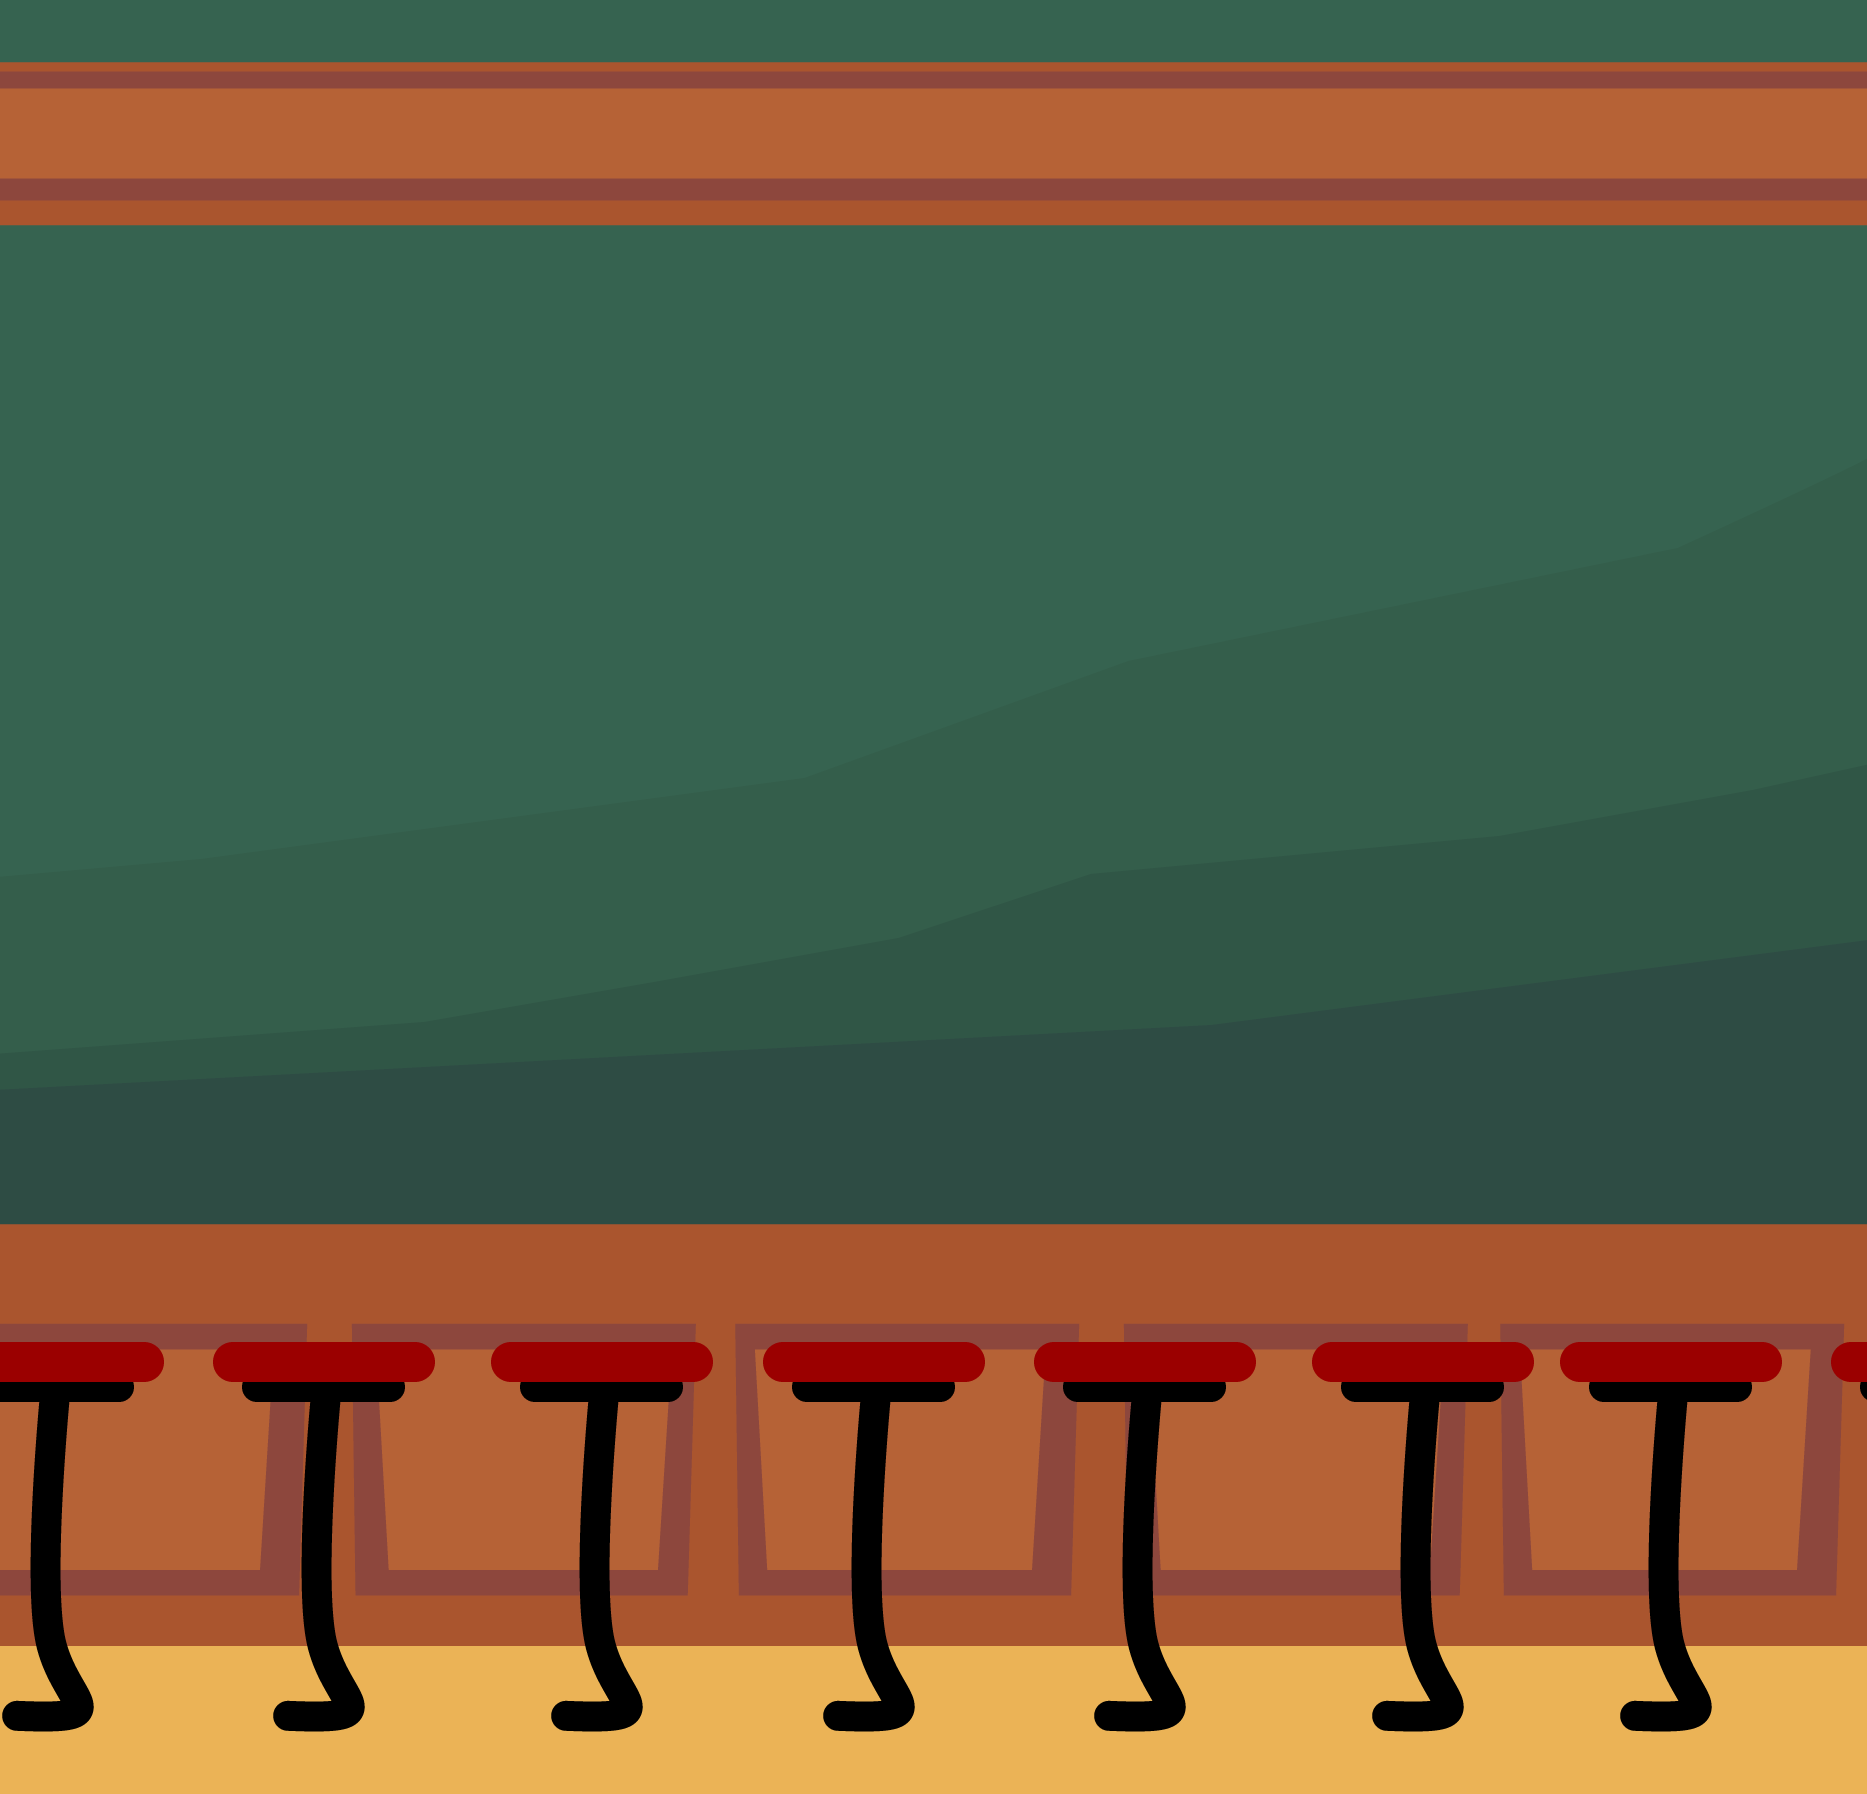
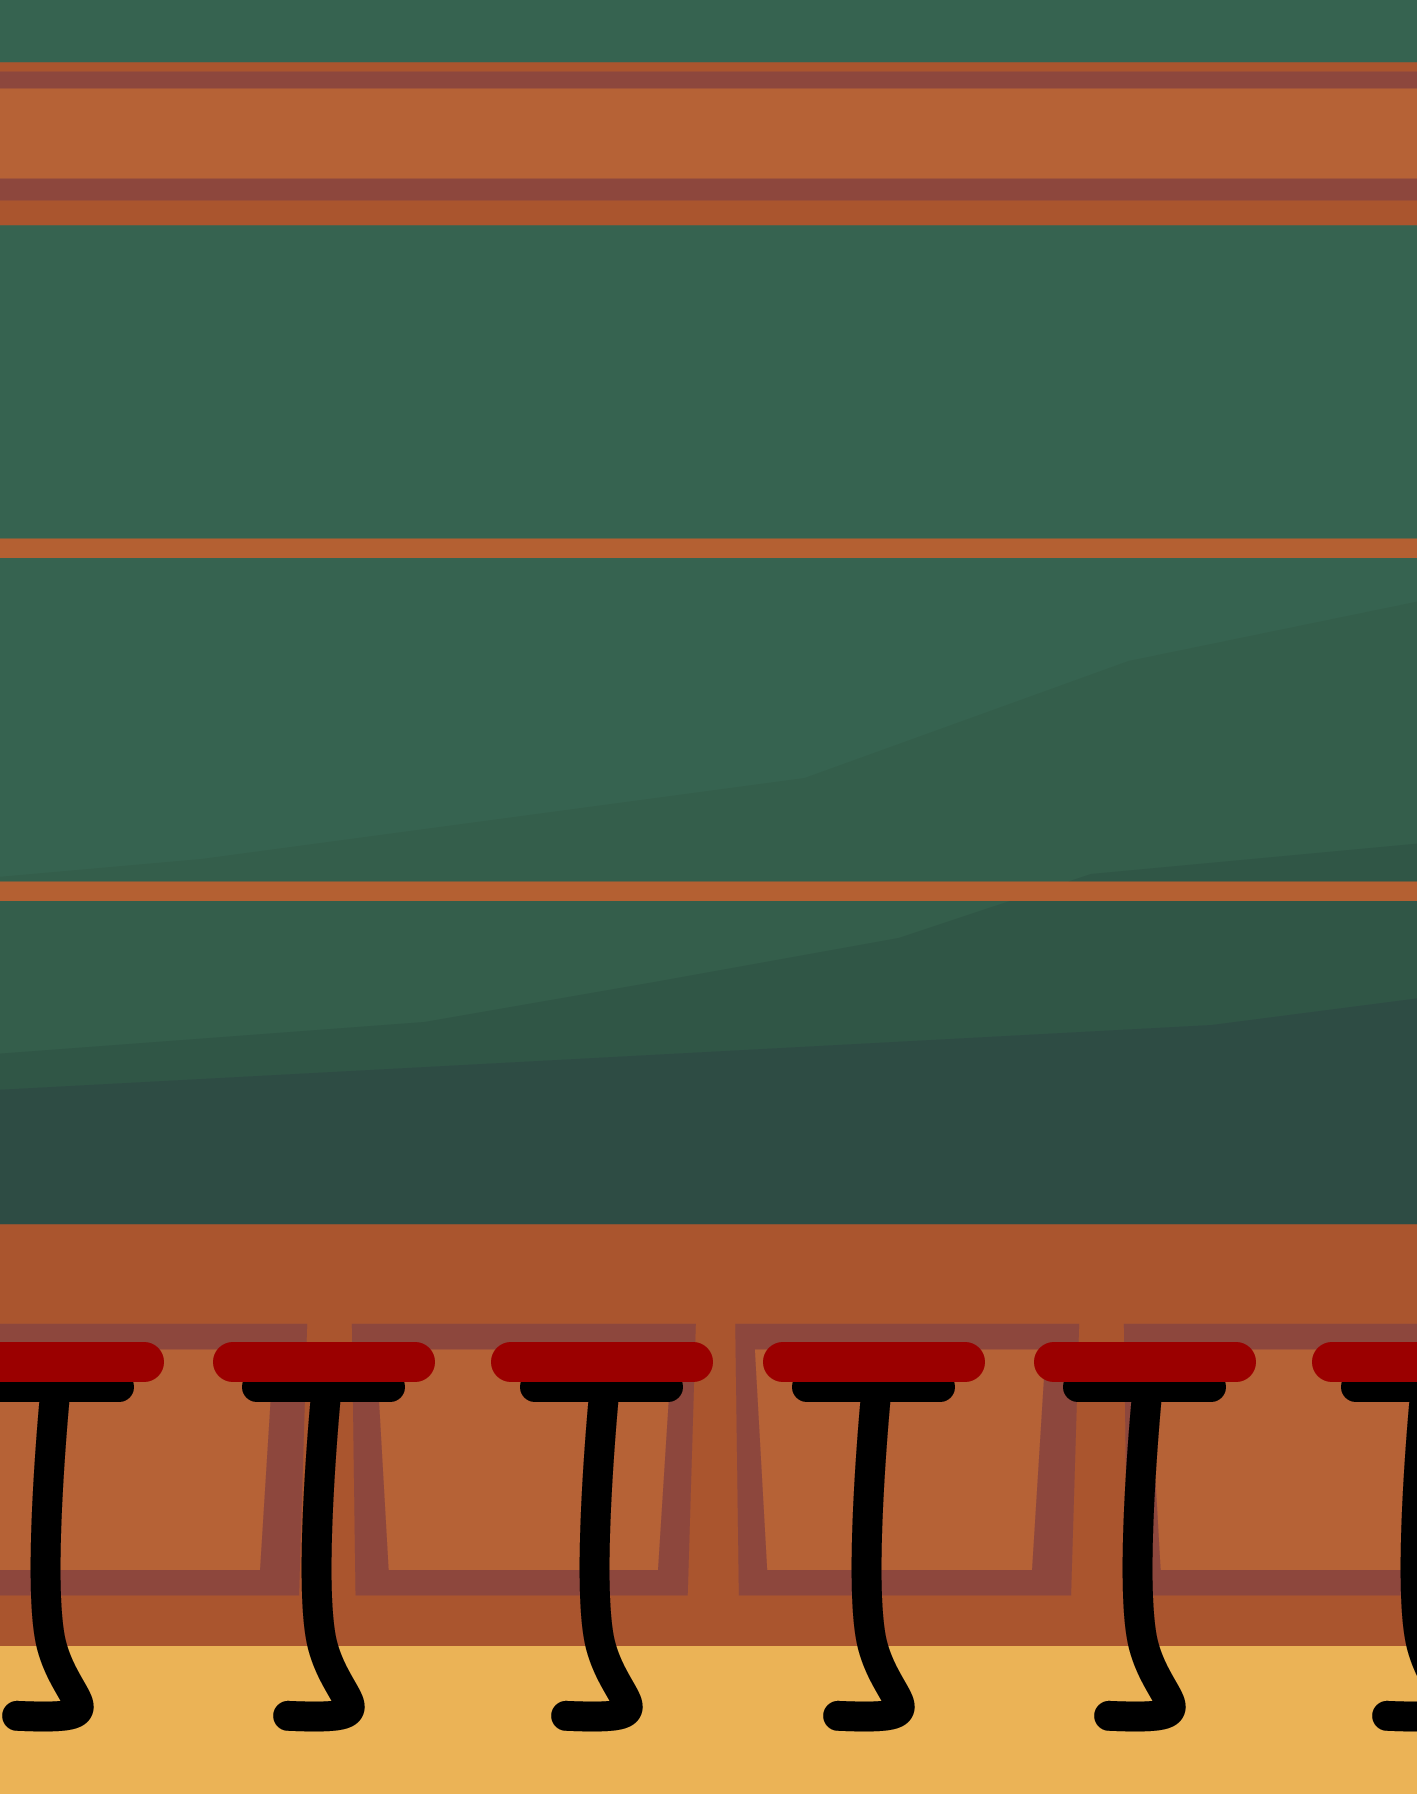
Menü umsortiert

diff --git a/Trinkspiel_RN/src/menus/MainMenu.js b/Trinkspiel_RN/src/menus/MainMenu.js
@@ -80,11 +80,13 @@ function MainMenu({ navigation }) {
 
                 <View style={{ height: '100%', width: backgroundImageWidth, alignItems: 'center', justifyContent: 'center' }}>
 
-                  
+                    <View style={{ position: 'absolute', left: '0%', top: '62%', alignItems: 'center', justifyContent: 'bottm' }}>
+                      <Image source={require('../../assets/images/bar/shelf.png')} style={{width: backgroundImageWidth}}/>
+                    </View>
 
                     
 
-                    <TouchableOpacity onPress={() => openModalWithGame('The One')} style={{position: 'absolute', left: '5%', top: '32%', width: '14%', height: '30%'}}>
+                    <TouchableOpacity onPress={() => openModalWithGame('The One')} style={{position: 'absolute', left: '10%', top: '30%', width: '14%', height: '30%'}}>
                       <View style={{height:'100%', justifyContent: 'center', alignItems: 'center',}}>
                         <Image source={require('../../assets/images/bottles/bottle_001.png')} style={appStyles.bottleButton} />
                       </View>
@@ -94,7 +96,7 @@ function MainMenu({ navigation }) {
                     </TouchableOpacity>
                     
 
-                    <TouchableOpacity onPress={() => openModalWithGame('ManyQuestionsGame')} style={{position: 'absolute', left: '21%', top: '32%', width: '14%', height: '30%'}}>
+                    <TouchableOpacity onPress={() => openModalWithGame('ManyQuestionsGame')} style={{position: 'absolute', left: '30%', top: '30%', width: '14%', height: '30%'}}>
                       <View style={{height:'100%', justifyContent: 'center', alignItems: 'center',}}>
                         <Image source={require('../../assets/images/bottles/bottle_002.png')} style={appStyles.bottleButton} />
                       </View>
@@ -105,7 +107,7 @@ function MainMenu({ navigation }) {
 
                     
 
-                    <TouchableOpacity onPress={() => openModalWithGame('Schöneberg')} style={{position: 'absolute', left: '35%', top: '32%', width: '14%', height: '30%'}}>
+                    <TouchableOpacity onPress={() => openModalWithGame('Schöneberg')} style={{position: 'absolute', left: '55%', top: '30%', width: '14%', height: '30%'}}>
                       <View style={{height:'100%', justifyContent: 'center', alignItems: 'center',}}>
                         <Image source={require('../../assets/images/bottles/bottle_014.png')} style={appStyles.bottleButton} />
                         <View style={appStyles.bottleButtonBaldVerfügbarKasten}>
@@ -120,7 +122,7 @@ function MainMenu({ navigation }) {
                     
 
 
-                    <TouchableOpacity onPress={() => openModalWithGame('Skala')} style={{position: 'absolute', left: '56%', top: '32%', width: '14%', height: '30%'}}>
+                    <TouchableOpacity onPress={() => openModalWithGame('Skala')} style={{position: 'absolute', left: '77%', top: '30%', width: '14%', height: '30%'}}>
                       <View style={{height:'100%', justifyContent: 'center', alignItems: 'center',}}>
                         <Image source={require('../../assets/images/bottles/bottle_004.png')} style={appStyles.bottleButton} />
                         <View style={appStyles.bottleButtonBaldVerfügbarKasten}>
@@ -137,16 +139,16 @@ function MainMenu({ navigation }) {
 
                     
                     
-
-                    
-
-                  <View style={{ position: 'absolute', left: '0%', top: '62%', alignItems: 'center', justifyContent: 'bottm' }}>
+                  <View style={{ position: 'absolute', left: '0%', top: '100%', width: '100%', height: '1%', alignItems: 'center', justifyContent: 'bottm' }}>
                     <Image source={require('../../assets/images/bar/shelf.png')} style={{width: backgroundImageWidth}}/>
                   </View>
+                    
+
+                  
                   
                     
 
-                    <TouchableOpacity onPress={() => openModalWithGame('Kingscup')} style={{position: 'absolute', left: '3%', top: '70%', width: '14%', height: '30%'}}>
+                    <TouchableOpacity onPress={() => openModalWithGame('Kingscup')} style={{position: 'absolute', left: '3%', top: '68%', width: '14%', height: '30%'}}>
                       <View style={{height:'100%', justifyContent: 'center', alignItems: 'center',}}>
                         <Image source={require('../../assets/images/bottles/bottle_005.png')} style={appStyles.bottleButton} />
                       </View>
@@ -156,7 +158,7 @@ function MainMenu({ navigation }) {
                     </TouchableOpacity>
 
 
-                    <TouchableOpacity onPress={() => openModalWithGame('HorseRace')} style={{position: 'absolute', left: '20%', top: '72%', width: '14%', height: '30%'}}>
+                    <TouchableOpacity onPress={() => openModalWithGame('HorseRace')} style={{position: 'absolute', left: '25%', top: '73%', width: '18%', height: '25%'}}>
                       <View style={{height:'100%', justifyContent: 'center', alignItems: 'center',}}>
                         <Image source={require('../../assets/images/bottles/horse.png')} style={appStyles.bottleButton} />
                       </View>
@@ -171,7 +173,7 @@ function MainMenu({ navigation }) {
 
                     
 
-                    <TouchableOpacity onPress={() => openModalWithGame('6by6')} style={{position: 'absolute', left: '40%', top: '70%', width: '14%', height: '30%'}}>
+                    <TouchableOpacity onPress={() => openModalWithGame('6by6')} style={{position: 'absolute', left: '50%', top: '68%', width: '14%', height: '30%'}}>
                       <View style={{height:'100%', justifyContent: 'center', alignItems: 'center',}}>
                         <Image source={require('../../assets/images/bottles/bottle_006.png')} style={appStyles.bottleButton} />
                         <View style={appStyles.bottleButtonBaldVerfügbarKasten}>
@@ -185,7 +187,7 @@ function MainMenu({ navigation }) {
 
                     
 
-                    <TouchableOpacity onPress={() => openModalWithGame('Activity')} style={{position: 'absolute', left: '55%', top: '70%', width: '14%', height: '30%'}}>
+                    <TouchableOpacity onPress={() => openModalWithGame('Activity')} style={{position: 'absolute', left: '73%', top: '68%', width: '14%', height: '30%'}}>
                       <View style={{height:'100%', justifyContent: 'center', alignItems: 'center',}}>
                         <Image source={require('../../assets/images/bottles/bottle_007.png')} style={appStyles.bottleButton} />
                         <View style={appStyles.bottleButtonBaldVerfügbarKasten}>
@@ -197,9 +199,51 @@ function MainMenu({ navigation }) {
                       </View>
                     </TouchableOpacity>
 
+                  
+
+
+                    
+                    {/*THIRD LEVEL*/}
+
+                  
+
                     
 
-                    <TouchableOpacity onPress={() => openModalWithGame('Top10')} style={{position: 'absolute', left: '75%', top: '70%', width: '14%', height: '30%'}}>
+                    <TouchableOpacity onPress={() => openModalWithGame('SpinTheBottle')} style={{position: 'absolute', left: '10%', top: '106%', width: '14%', height: '30%'}}>
+                      <View style={{height:'100%', justifyContent: 'center', alignItems: 'center',}}>
+                        <Image source={require('../../assets/images/bottles/bottle_003.png')} style={appStyles.bottleButton} />
+                      </View>
+                      <View style={{ width: '100%', alignItems: 'center' }}>
+                        <Text style={appStyles.bottleText}>Flaschendrehen</Text>
+                      </View>
+                    </TouchableOpacity>
+
+                    
+
+                    <TouchableOpacity onPress={() => openModalWithGame('MaexchenGame')} style={{position: 'absolute', left: '34%', top: '106%', width: '14%', height: '30%'}}>
+                      <View style={{height:'100%', justifyContent: 'center', alignItems: 'center',}}>
+                        <Image source={require('../../assets/images/bottles/bottle_010.png')} style={appStyles.bottleButton} />
+                      </View>
+                      <View style={{ width: '100%', alignItems: 'center' }}>
+                        <Text style={appStyles.bottleText}>Mäxchen</Text>
+                      </View>
+                    </TouchableOpacity>
+                    
+
+                    <TouchableOpacity onPress={() => openModalWithGame('Kopfpoker')} style={{position: 'absolute', left: '57%', top: '106%', width: '14%', height: '30%'}}>
+                      <View style={{height:'100%', justifyContent: 'center', alignItems: 'center',}}>
+                        <Image source={require('../../assets/images/bottles/bottle_012.png')} style={appStyles.bottleButton} />
+                        <View style={appStyles.bottleButtonBaldVerfügbarKasten}>
+                          <Text style={[appStyles.bottleText,{fontSize: 12}]}>Bald verfügbar</Text>
+                        </View>
+                      </View>
+                      <View style={{ width: '100%', alignItems: 'center' }}>
+                        <Text style={appStyles.bottleText}>Kopfpoker</Text>
+                      </View>
+                    </TouchableOpacity>
+
+
+                    <TouchableOpacity onPress={() => openModalWithGame('Top10')} style={{position: 'absolute', left: '75%', top: '106%', width: '14%', height: '30%'}}>
                       <View style={{height:'100%', justifyContent: 'center', alignItems: 'center',}}>
                         <Image source={require('../../assets/images/bottles/bottle_008.png')} style={appStyles.bottleButton} />
                         <View style={appStyles.bottleButtonBaldVerfügbarKasten}>
@@ -212,57 +256,17 @@ function MainMenu({ navigation }) {
                     </TouchableOpacity>
 
 
-                  <View style={{ position: 'absolute', left: '0%', top: '100%', width: '100%', height: '1%', alignItems: 'center', justifyContent: 'bottm' }}>
-                    <Image source={require('../../assets/images/bar/shelf.png')} style={{width: backgroundImageWidth}}/>
-                  </View>
 
-                    
-
-                    <TouchableOpacity onPress={() => openModalWithGame('SpinTheBottle')} style={{position: 'absolute', left: '7%', top: '106%', width: '14%', height: '30%'}}>
-                      <View style={{height:'100%', justifyContent: 'center', alignItems: 'center',}}>
-                        <Image source={require('../../assets/images/bottles/bottle_003.png')} style={appStyles.bottleButton} />
-                      </View>
-                      <View style={{ width: '100%', alignItems: 'center' }}>
-                        <Text style={appStyles.bottleText}>Flaschendrehen</Text>
-                      </View>
-                    </TouchableOpacity>
-
-                    
-
-                    <TouchableOpacity onPress={() => openModalWithGame('MaexchenGame')} style={{position: 'absolute', left: '25%', top: '106%', width: '14%', height: '30%'}}>
-                      <View style={{height:'100%', justifyContent: 'center', alignItems: 'center',}}>
-                        <Image source={require('../../assets/images/bottles/bottle_010.png')} style={appStyles.bottleButton} />
-                      </View>
-                      <View style={{ width: '100%', alignItems: 'center' }}>
-                        <Text style={appStyles.bottleText}>Mäxchen</Text>
-                      </View>
-                    </TouchableOpacity>
-                    
-                    
-
-                    <TouchableOpacity onPress={() => openModalWithGame('Getränkezähler')} style={{position: 'absolute', left: '43%', top: '106%', width: '14%', height: '30%'}}>
-                      <View style={{height:'100%', justifyContent: 'center', alignItems: 'center',}}>
-                        <Image source={require('../../assets/images/bottles/bottle_011.png')} style={appStyles.bottleButton} />
-                        <View style={appStyles.bottleButtonBaldVerfügbarKasten}>
-                          <Text style={[appStyles.bottleText,{fontSize: 12}]}>Bald verfügbar</Text>
-                        </View>
-                      </View>
+                    {/*EXTRA*/}
+                    <TouchableOpacity onPress={() => openModalWithGame('Getränkezähler')} style={{position: 'absolute', left: '3%', top: '170%', width: '17%', height: '25%'}}>
                       <View style={{ width: '100%', alignItems: 'center' }}>
                         <Text style={appStyles.bottleText}>Getränkezähler</Text>
                       </View>
-                    </TouchableOpacity>
-
-                    
-
-                    <TouchableOpacity onPress={() => openModalWithGame('Kopfpoker')} style={{position: 'absolute', left: '70%', top: '106%', width: '14%', height: '30%'}}>
                       <View style={{height:'100%', justifyContent: 'center', alignItems: 'center',}}>
-                        <Image source={require('../../assets/images/bottles/bottle_012.png')} style={appStyles.bottleButton} />
+                        <Image source={require('../../assets/images/bottles/bottle_011.png')} style={appStyles.bottleButton} />
                         <View style={appStyles.bottleButtonBaldVerfügbarKasten}>
-                          <Text style={[appStyles.bottleText,{fontSize: 12}]}>Bald verfügbar</Text>
+                          <Text style={[appStyles.bottleText,{fontSize: 9}]}>Bald verfügbar</Text>
                         </View>
-                      </View>
-                      <View style={{ width: '100%', alignItems: 'center' }}>
-                        <Text style={appStyles.bottleText}>Kopfpoker</Text>
                       </View>
                     </TouchableOpacity>
                     
